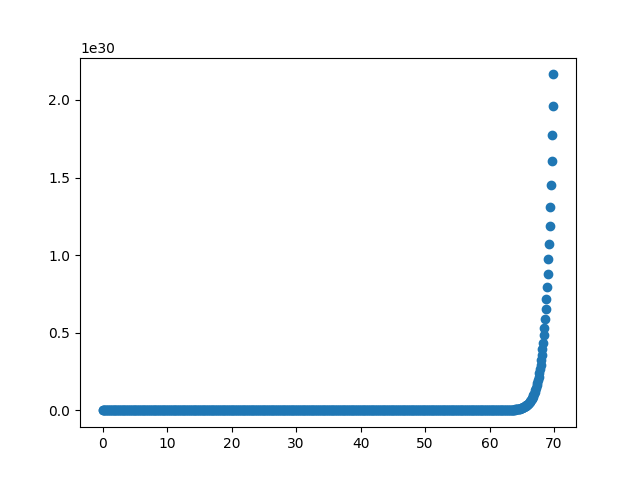
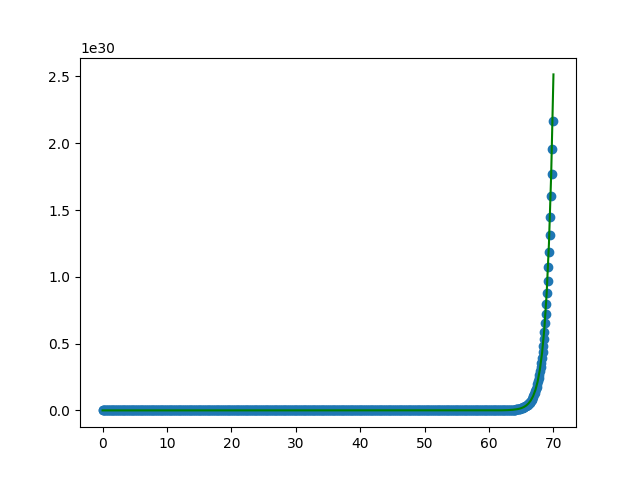
update

diff --git a/Método de Euler para ED's/EulerFirstOrder.py b/Método de Euler para ED's/EulerFirstOrder.py
@@ -3,28 +3,72 @@ import numpy as np
 import matplotlib.pyplot as plt
 
 def euler(f, x0, y0, h, n):
+    # Criando listas de coordenadas com as coordenadas iniciais:
     X = [x0]
     Y = [y0]
+
     for k in range(1, n):
+        # Calculando x_k+1:
         x = x0 + k*h
+        # Calculando y_k:
         y_k = Y[k-1] + f(X[k-1], Y[k-1])*h
+
         X.append(x)
         Y.append(y_k)
+    
     return X, Y
 
 if __name__ == '__main__':
     
-    def f(x, y):
+
+    # Exemplo 01 para y'(x) = e**x:
+
+    # Equação obtida para a derivada primeira de y na equação diferencial:
+    def df(x, y):
+        return e**x
+
+    # Solução da equação diferencial:
+    def f(x):
         return e**x
     
-    x0 = 0
-    y0 = 1    
+    # Restrição de valor inicial: 
+    x0, y0 = 0, 1
+    # Número de iterações(passos):
     n = 700
+    # Tamanho de cada passo:
     h = 0.1
         
-    X, Y = euler(f, x0, y0, h, n)
+    X, Y = euler(df, x0, y0, h, n)
+    t = np.linspace(x0, n*h, 200)
+    ft = [f(ti) for ti in t]
 
-    # plt.plot(t, ft, color = "green")
+    plt.plot(t, ft, color = "green")
     plt.scatter(X, Y, label = "blue")
     plt.savefig("Exemplo01.png")
+    plt.close()
+
+    # Exemplo 02 para y'(x) = cos(x):
+
+    # Equação obtida para a derivada primeira de y na equação diferencial:
+    def df(x, y):
+        return cos(x)
+    
+    # Solução da equação diferencial:
+    def f(x):
+        return sin(x)
+
+    # Restrição de valor inicial: 
+    x0, y0 = 0, 0
+    # Número de iterações(passos):
+    n = 700
+    # Tamanho de cada passo:
+    h = 0.1
+
+    X, Y = euler(df, x0, y0, h, n)
+    t = np.linspace(x0, n*h, 200)
+    ft = [f(ti) for ti in t]
+
+    plt.plot(t, ft, color = "green")
+    plt.scatter(X, Y, label = "blue")
+    plt.savefig("Exemplo02.png")
     plt.close()
